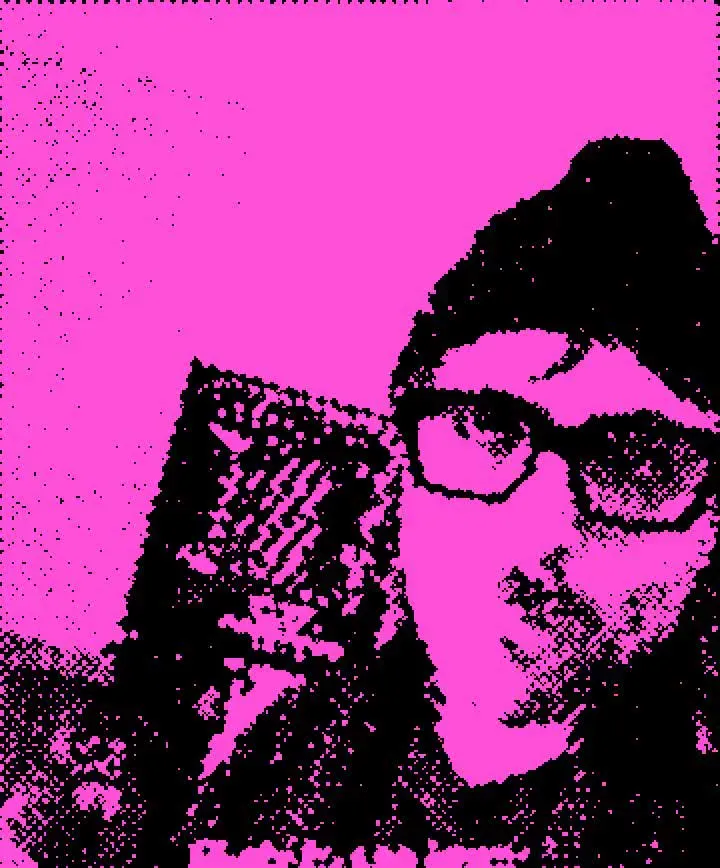
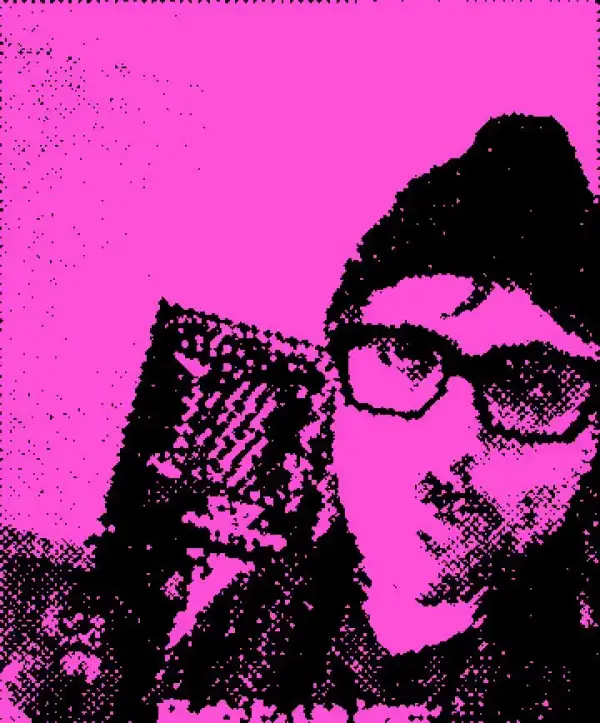
fix: Phones load the site faster: halftone sets up pictures only as they near the screen, card images ship 400px and 800px copies with a srcset, hidden project clips stop downloading posters, each hover box is defined once instead of per card, offscreen scribbles pause, only latin fonts preload, and

diff --git a/tests/responsive-images.test.ts b/tests/responsive-images.test.ts
@@ -1,0 +1,31 @@
+import { describe, expect, it } from 'vitest';
+import { addSrcsets } from '../src/integrations/responsive-images.mjs';
+
+const widths: Record<string, number> = { '/images/a/hero.webp': 1200, '/images/a/small.webp': 600 };
+const widthOf = (src: string) => widths[src];
+
+describe('addSrcsets', () => {
+	it('adds the smaller copies and the original to an image that sets sizes', () => {
+		const html = '<img src="/images/a/hero.webp" sizes="112px" alt="">';
+		expect(addSrcsets(html, widthOf)).toBe(
+			'<img srcset="/images/a/hero.400w.webp 400w, /images/a/hero.800w.webp 800w, /images/a/hero.webp 1200w" src="/images/a/hero.webp" sizes="112px" alt="">',
+		);
+	});
+
+	it('only offers copies narrower than the original', () => {
+		const html = '<img src="/images/a/small.webp" sizes="112px">';
+		expect(addSrcsets(html, widthOf)).toContain(
+			'srcset="/images/a/small.400w.webp 400w, /images/a/small.webp 600w"',
+		);
+	});
+
+	it('leaves images without sizes, with a srcset, or outside /images alone', () => {
+		const untouched = [
+			'<img src="/images/a/hero.webp" alt="">',
+			'<img src="/images/a/hero.webp" srcset="x 1x" sizes="112px">',
+			'<img src="https://img.youtube.com/vi/x/mqdefault.jpg" sizes="120px">',
+			'<img src="/images/a/unknown.webp" sizes="112px">',
+		].join('');
+		expect(addSrcsets(untouched, widthOf)).toBe(untouched);
+	});
+});

diff --git a/src/scripts/halftone.ts b/src/scripts/halftone.ts
@@ -243,7 +243,7 @@ function attach(element: Source, draw: Draw): void {
 	const still =
 		element instanceof HTMLImageElement
 			? element
-			: Object.assign(new Image(), { src: element.poster });
+			: Object.assign(new Image(), { src: element.poster || element.dataset.poster || '' });
 	let stillReady = false;
 
 	const fit = (): boolean => {
@@ -328,6 +328,21 @@ if (elements.length) {
 		showOriginals();
 		throw error;
 	}
-	if (draw) elements.forEach((element) => attach(element, draw));
-	else showOriginals();
+	if (draw) {
+		// Set up each picture only as it nears the screen: doing all of them at load
+		// (a canvas, a pixel sample and a forced layout each) cost a phone 1-2s of main
+		// thread on /work/ and held back the first screen. A hidden one (a filtered-out
+		// row) never intersects, so it waits until it's shown.
+		const attachWhenNear = new IntersectionObserver(
+			(entries) => {
+				for (const { target, isIntersecting } of entries) {
+					if (!isIntersecting) continue;
+					attachWhenNear.unobserve(target);
+					attach(target as Source, draw);
+				}
+			},
+			{ rootMargin: '400px 0px' },
+		);
+		elements.forEach((element) => attachWhenNear.observe(element));
+	} else showOriginals();
 }

diff --git a/src/scripts/in-view-play.ts b/src/scripts/in-view-play.ts
@@ -8,6 +8,25 @@
 import { MOTION_RESUMED_EVENT, isMotionPaused } from './pause-motion';
 
 const videos = document.querySelectorAll<HTMLVideoElement>('video[data-autoplay-in-view]');
+
+// A clip hidden on phones or far down the page keeps its still in data-poster and gets
+// it as it nears the screen: a poster attribute downloads at load, even on a hidden
+// clip (ProjectCard). Under reduced motion too, where the still is all there is.
+const lazyPosters = document.querySelectorAll<HTMLVideoElement>('video[data-poster]');
+if (lazyPosters.length) {
+	const posterObserver = new IntersectionObserver(
+		(entries) => {
+			for (const { target, isIntersecting } of entries) {
+				if (!isIntersecting) continue;
+				const video = target as HTMLVideoElement;
+				posterObserver.unobserve(video);
+				video.poster = video.dataset.poster!;
+			}
+		},
+		{ rootMargin: '400px 0px' },
+	);
+	lazyPosters.forEach((video) => posterObserver.observe(video));
+}
 if (videos.length && !window.matchMedia('(prefers-reduced-motion: reduce)').matches) {
 	const pausedByViewer = new WeakSet<HTMLVideoElement>();
 	const onScreen = new Set<HTMLVideoElement>();

diff --git a/src/styles/motion.css b/src/styles/motion.css
@@ -65,13 +65,15 @@
 	visibility: visible;
 }
 
-.hover-ring path {
+/* On the svg, not its path: the dash properties inherit, which reaches a HoverBox's
+   path inside its <use> (where selectors can't) */
+.hover-ring {
 	stroke-dasharray: 1;
 	stroke-dashoffset: 1;
 	transition: stroke-dashoffset 0.6s cubic-bezier(0.3, 0.7, 0.2, 1);
 }
 
-.ring-host:is(:hover, :focus-visible, :has(:focus-visible)) .hover-ring path {
+.ring-host:is(:hover, :focus-visible, :has(:focus-visible)) .hover-ring {
 	stroke-dashoffset: 0;
 }
 
@@ -232,7 +234,7 @@
 @media (prefers-reduced-motion: no-preference) {
 	.redraw,
 	.redraw-strokes,
-	.hover-ring {
+	.ring-host:is(:hover, :focus-visible, :has(:focus-visible)) .hover-ring {
 		animation: boil 0.5s steps(1, end) infinite;
 	}
 }
@@ -294,7 +296,6 @@
 .motion-paused * {
 	animation-play-state: paused !important;
 }
-
 @media (prefers-reduced-motion: reduce) {
 	.redraw path,
 	.redraw-strokes path,

diff --git a/src/scripts/pause-offscreen-scribbles.ts b/src/scripts/pause-offscreen-scribbles.ts
@@ -1,0 +1,17 @@
+// Pauses each looping scribble (.redraw, .redraw-strokes) while it's off screen.
+// Every frame of a scribble runs its crayon and boil filters on the CPU, so a
+// page of them kept a phone busy repainting marks nobody could see. Set inline
+// rather than in CSS, which sits at its size budget (tests/bundle-size.test.ts);
+// the pause-motion button's !important rule still wins over it.
+const scribbles = document.querySelectorAll<SVGElement>('svg.redraw, svg.redraw-strokes');
+if (scribbles.length) {
+	const observer = new IntersectionObserver((entries) => {
+		for (const { target, isIntersecting } of entries) {
+			const state = isIntersecting ? '' : 'paused';
+			for (const element of [target, ...target.querySelectorAll('path')]) {
+				(element as SVGElement).style.animationPlayState = state;
+			}
+		}
+	});
+	scribbles.forEach((scribble) => observer.observe(scribble));
+}

diff --git a/tests/build-output.test.ts b/tests/build-output.test.ts
@@ -507,9 +507,10 @@ describe('scribbles keep their shape', () => {
 
 	it('neighbouring cards draw different hover boxes', () => {
 		const grid = readDist('work/index.html').split('id="projects-grid"')[1];
-		const boxes = [...grid.matchAll(/<svg class="hover-ring[^]*?<path[^>]* d="([^"]+)"/g)]
+		// Each card draws its box from a shared definition (#hover-box-N in BaseLayout)
+		const boxes = [...grid.matchAll(/<svg class="hover-ring[^]*?<use href="#(hover-box-\d+)"/g)]
 			.slice(0, 6)
-			.map(([, path]) => path);
+			.map(([, id]) => id);
 		expect(new Set(boxes).size).toBe(6);
 	});
 });

diff --git a/.claude/rules/images.md b/.claude/rules/images.md
@@ -5,6 +5,7 @@ paths:
   - 'scripts/resize-webp.mjs'
   - 'scripts/validate-images.sh'
   - 'src/plugins/rehype-*.mjs'
+  - 'src/integrations/responsive-images.mjs'
 ---
 
 # Images
@@ -53,3 +54,9 @@ node scripts/resize-webp.mjs --max-width 1200 [--quality 82] [--dry-run] <paths.
 ```
 
 Check what the page actually renders at before picking a width. The crop-art gallery on `/about` declares `width="300"` with `object-cover` and links out to cropart.com rather than to a full-size image, so 1200px is already generous there.
+
+## Card images get a srcset
+
+`src/integrations/responsive-images.mjs` runs after the build: every `<img>` that sets `sizes` and points at a WebP under `/images/` gets `.400w.webp` and `.800w.webp` copies (cached in `node_modules/.cache/responsive-images`) and a `srcset`. A component opts in by setting `sizes` to the slot's real width (BlogCard, ProjectCard, the homepage list, /about tiles, the featured heroes). Post-body images are left alone. It only runs in `astro build`, so check a srcset on the built site, not the dev server.
+
+Video posters download at load even on a hidden clip. A clip hidden on phones (ProjectCard) uses `data-poster`, which `src/scripts/in-view-play.ts` turns into `poster` as it nears the screen.
